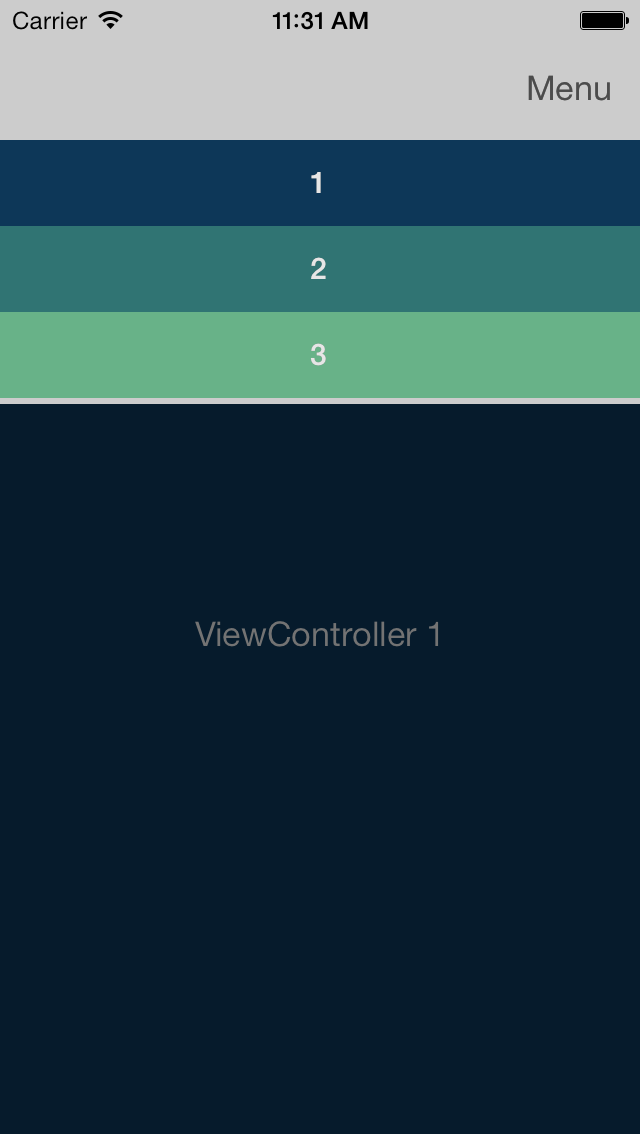
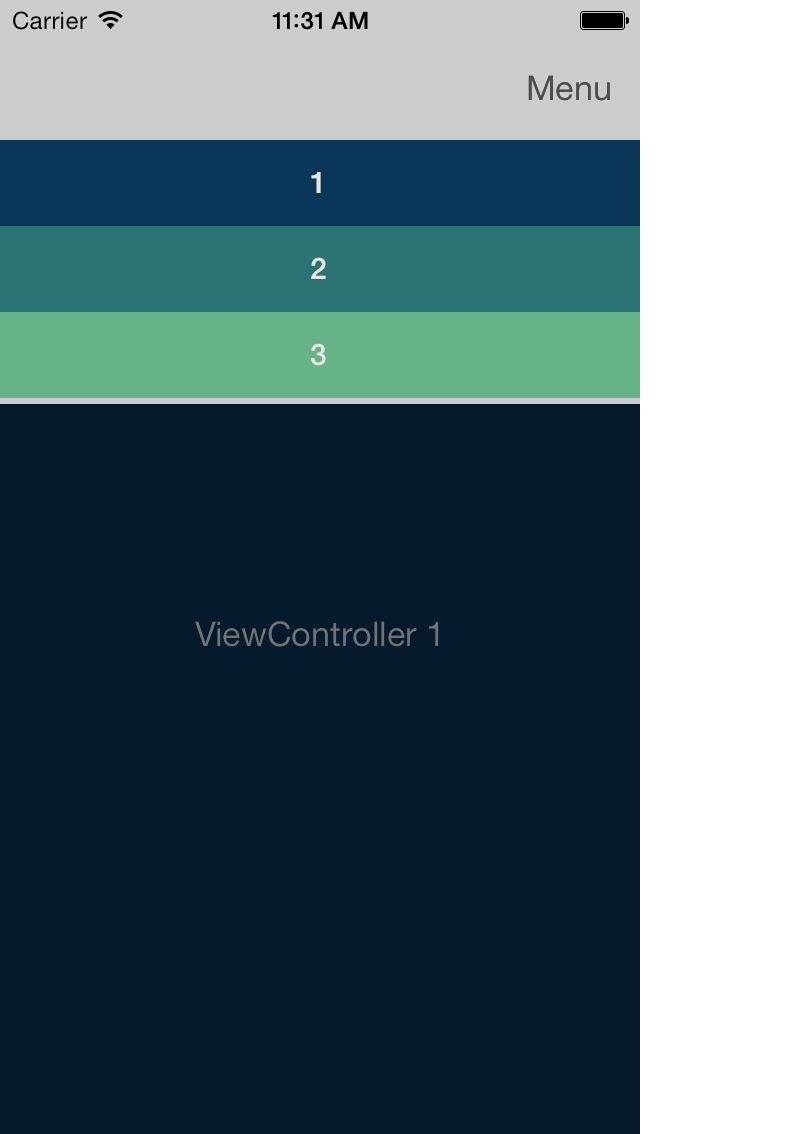
Fixing screenshot spacing.

diff --git a/readme.md b/readme.md
@@ -1,6 +1,6 @@
 # DropdownMenu
 
-<img src="https://raw.github.com/nmattisson/DropdownMenu/master/Screenshots/DropdownMenu.png" width="320" />
+<img src="https://raw.github.com/nmattisson/DropdownMenu/master/Screenshots/DropdownMenu.png" width="400" />
 <img src="https://raw.github.com/nmattisson/DropdownMenu/master/Screenshots/DropdownMenu.gif" width="320" />
 
 DropdownMenu is a navigation controller for setting the view of a ContainerViewController using a dropdown menu (aptly named, no?). Dropdown menus are in many situations superior to the more commonly used slide menu, and can also be a good alternative to tabs when you want to reduce visual distractions yet make less often used functions easily discoverable. This implementation is inspired by the menus used in the iOS7 apps from DropBox and Vine.
